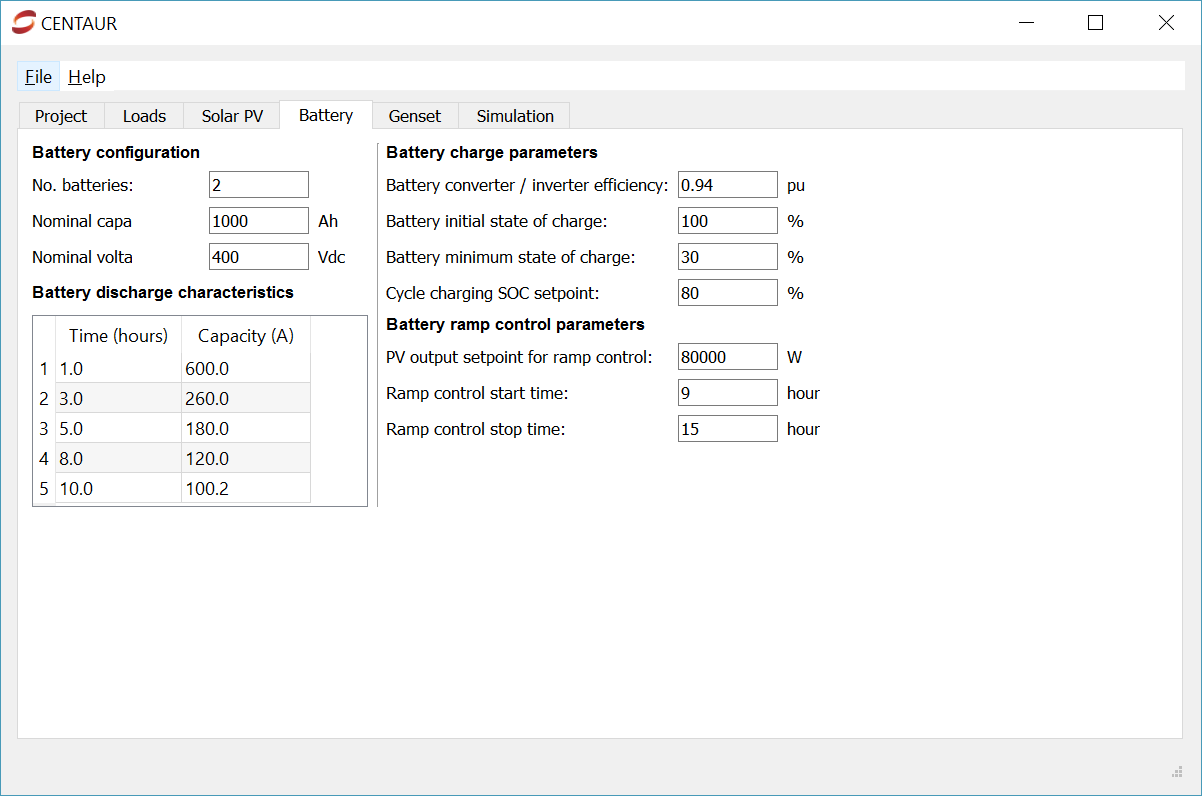
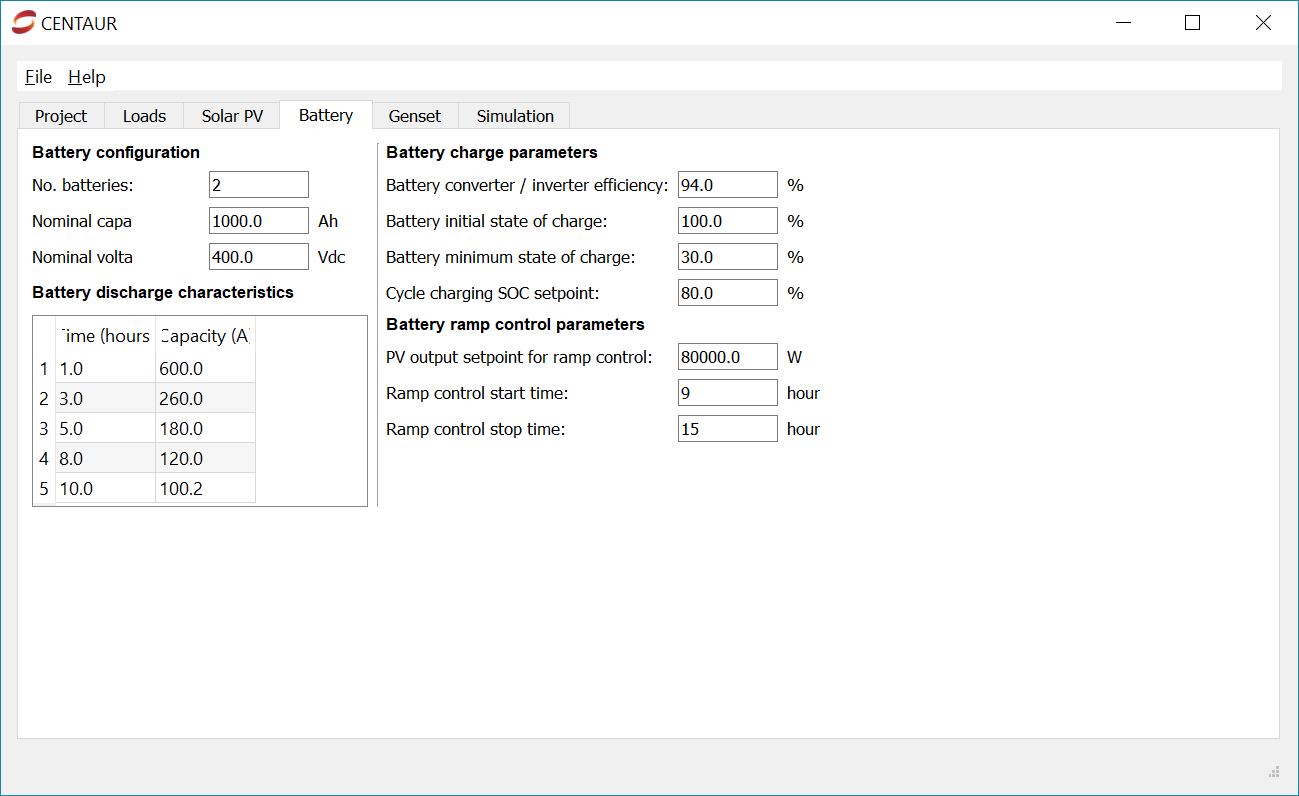
Use of more standard units in GUI
For example, replaced per unit with %

diff --git a/gui/gui_solar.py b/gui/gui_solar.py
@@ -74,25 +74,25 @@ class solar_ui(QtGui.QWidget):
         self.edit_Pinv.setFixedWidth(100)
         
         label7a = QtGui.QLabel('Power temperature coefficient:')
-        label7b = QtGui.QLabel('pu/deg C')
+        label7b = QtGui.QLabel('%/deg C')
         
         self.edit_gamma = QtGui.QLineEdit()
         self.edit_gamma.setFixedWidth(100)
         
-        label8a = QtGui.QLabel('Enviromental derating factor:')
-        label8b = QtGui.QLabel('pu')
+        label8a = QtGui.QLabel('Enviromental derating:')
+        label8b = QtGui.QLabel('%')
         
         self.edit_ke = QtGui.QLineEdit()
         self.edit_ke.setFixedWidth(100)
         
-        label9a = QtGui.QLabel('Manufacturer tolerance factor:')
-        label9b = QtGui.QLabel('pu')
+        label9a = QtGui.QLabel('Manufacturer tolerance derating:')
+        label9b = QtGui.QLabel('%')
         
         self.edit_km = QtGui.QLineEdit()
         self.edit_km.setFixedWidth(100)
         
         label10a = QtGui.QLabel('Inverter / SCC efficiency:')
-        label10b = QtGui.QLabel('pu')
+        label10b = QtGui.QLabel('%')
         
         self.edit_eff = QtGui.QLineEdit()
         self.edit_eff.setFixedWidth(100)
@@ -113,7 +113,7 @@ class solar_ui(QtGui.QWidget):
         self.edit_azimuth.setFixedWidth(100)
         
         label13a = QtGui.QLabel('Albedo:')
-        label13b = QtGui.QLabel('pu')
+        label13b = QtGui.QLabel('%')
         
         self.edit_albedo = QtGui.QLineEdit()
         self.edit_albedo.setFixedWidth(100)
@@ -169,13 +169,13 @@ class solar_ui(QtGui.QWidget):
         self.edit_lon.editingFinished.connect(utility.create_validation_hook(self, self.edit_lon, "Longitude", -180, 180))
         self.edit_Pstc.editingFinished.connect(utility.create_validation_hook(self, self.edit_Pstc, "PStc", 0, float("inf")))
         self.edit_Pinv.editingFinished.connect(utility.create_validation_hook(self, self.edit_Pinv, "Pinv", 0, float("inf")))
-        self.edit_gamma.editingFinished.connect(utility.create_validation_hook(self, self.edit_gamma, "Gamma", 0, 1))
-        self.edit_ke.editingFinished.connect(utility.create_validation_hook(self, self.edit_ke, "Ke", 0, 1))
-        self.edit_km.editingFinished.connect(utility.create_validation_hook(self, self.edit_km, "Km", 0, 1))
-        self.edit_eff.editingFinished.connect(utility.create_validation_hook(self, self.edit_eff, "Efficiency", 0, 1))
+        self.edit_gamma.editingFinished.connect(utility.create_validation_hook(self, self.edit_gamma, "Gamma", 0, 100))
+        self.edit_ke.editingFinished.connect(utility.create_validation_hook(self, self.edit_ke, "Ke", 0, 100))
+        self.edit_km.editingFinished.connect(utility.create_validation_hook(self, self.edit_km, "Km", 0, 100))
+        self.edit_eff.editingFinished.connect(utility.create_validation_hook(self, self.edit_eff, "Efficiency", 0, 100))
         self.edit_tilt.editingFinished.connect(utility.create_validation_hook(self, self.edit_tilt, "Tilt", 0, 90))
         self.edit_azimuth.editingFinished.connect(utility.create_validation_hook(self, self.edit_azimuth, "Azimuth", -180, 180))
-        self.edit_albedo.editingFinished.connect(utility.create_validation_hook(self, self.edit_albedo, "Albedo", 0, 1))
+        self.edit_albedo.editingFinished.connect(utility.create_validation_hook(self, self.edit_albedo, "Albedo", 0, 100))
         
         self.pv_coupling.currentIndexChanged.connect(self.update_coupling)
         update_button.clicked.connect(self.buttonClicked)

diff --git a/gui/globals.py b/gui/globals.py
@@ -56,16 +56,16 @@ def init():
                         [0.443, 25.66]])
     
     pv_data = {
-        'k_e'    : 0.90,                # Environmental factor for solar module output, e.g. dirt, dust, etc
+        'k_e'    : 90.0,                # Environmental factor for solar module output, e.g. dirt, dust, etc (%)
         'P_inv'  : 150000,              # PV system inverter output (Wac)
-        'k_m'    : 0.95,                # Manufacturer tolerance factor
+        'k_m'    : 95.0,                # Manufacturer tolerance factor (%)
         'P_stc'  : 175000,              # PV system output at STC (Wp)
-        'gamma'  : 0.0038,              # Power temperature coefficient (pu per deg C)
-        'eff_pv' : 0.95,                # Efficiency of PV inverter (AC coupled) or charge controller (DC coupled) in pu
+        'gamma'  : 0.38,                # Power temperature coefficient (% per deg C)
+        'eff_pv' : 95.0,                # Efficiency of PV inverter (AC coupled) or charge controller (DC coupled) in %
         'pv_cpl' : 'DC',                # PV coupling - AC or DC
         'tilt'   : 10.0,                # Tilt angle
         'azimuth' : 180.0,              # Azimuth angle
-        'albedo' : 0.2                  # Albedo / ground reflectance
+        'albedo' : 20.0                 # Albedo / ground reflectance (%)
         }
     
     loads = np.array([[43.9, 43.9],   # 00:00
@@ -108,7 +108,7 @@ def init():
         'SOC_min'    : 30,                                     # Minimum state of charge (battery "empty")
         'SOC_0'      : 100,                                    # Initial state of charge
         'SOC_cyc'    : 80,                                     # State of charge setpoint for cycle charging
-        'eff_conv'   : 0.94,                                   # Battery converter / inverter   efficiency
+        'eff_conv'   : 94.0,                                   # Battery converter / inverter   efficiency (%)
         'p_set'      : 80000,                                  # PV output setpoint for ramp control mode at AC load side (in W)
         't_set'      : [9,15]                                  # Time start/end for ramp control mode (hour of day)
     }
@@ -116,9 +116,9 @@ def init():
     gen_data = {
         'n_gen'     : 1,                   # Number of parallel generators
         'P_gen'     : 60,                  # Generator capacity (kW)
-        'l_min'     : 0.4,                 # Minimum generator loading (pu)
+        'l_min'     : 40.0,                # Minimum generator loading (%)
         'e_f'       : 0.27,                # Fuel efficiency (litres/kWh)
-        'chg_eff'   : 0.95,                # Generator AC/DC charger efficiency (for DC coupled only)
+        'chg_eff'   : 95.0,                # Generator AC/DC charger efficiency in % (for DC coupled only)
         'c_f'       : 0.65                 # Fuel cost (USD/kWh)   
     }
     

diff --git a/gui/gui_gen.py b/gui/gui_gen.py
@@ -40,7 +40,7 @@ class gen_ui(QtGui.QWidget):
         self.edit_Pgen.setFixedWidth(100)
         
         label3a = QtGui.QLabel('Minimum generator loading:')
-        label3b = QtGui.QLabel('pu')
+        label3b = QtGui.QLabel('%')
         
         self.edit_Pmin = QtGui.QLineEdit()
         self.edit_Pmin.setFixedWidth(100)
@@ -52,7 +52,7 @@ class gen_ui(QtGui.QWidget):
         self.edit_sfc.setFixedWidth(100)
         
         label5a = QtGui.QLabel('AC/DC charger efficiency:')
-        label5b = QtGui.QLabel('pu (DC coupled only)')
+        label5b = QtGui.QLabel('% (DC coupled only)')
         
         self.edit_ChgEff = QtGui.QLineEdit()
         self.edit_ChgEff.setFixedWidth(100)
@@ -77,9 +77,9 @@ class gen_ui(QtGui.QWidget):
 
         self.edit_nGen.editingFinished.connect(utility.create_validation_hook(self, self.edit_nGen, "Number of generators", 0, 9999))       
         self.edit_Pgen.editingFinished.connect(utility.create_validation_hook(self, self.edit_Pgen, "Generator nominal capacity", 0, 99999))
-        self.edit_Pmin.editingFinished.connect(utility.create_validation_hook(self, self.edit_Pmin, "Generator minimum loading", 0, 1))
+        self.edit_Pmin.editingFinished.connect(utility.create_validation_hook(self, self.edit_Pmin, "Generator minimum loading", 0, 100))
         self.edit_sfc.editingFinished.connect(utility.create_validation_hook(self, self.edit_sfc, "Specific fuel consumption", 0, 99999))
-        self.edit_ChgEff.editingFinished.connect(utility.create_validation_hook(self, self.edit_ChgEff, "AC/DC charger efficiency", 0, 1))
+        self.edit_ChgEff.editingFinished.connect(utility.create_validation_hook(self, self.edit_ChgEff, "AC/DC charger efficiency", 0, 100))
 
         self.refresh_data()  
     

diff --git a/gui/gui_battery.py b/gui/gui_battery.py
@@ -64,7 +64,7 @@ class battery_ui(QtGui.QWidget):
         title3.setFont(QtGui.QFont('arial', weight=QtGui.QFont.Bold))
         
         label4a = QtGui.QLabel('Battery converter / inverter efficiency:')
-        label4b = QtGui.QLabel('pu')
+        label4b = QtGui.QLabel('%')
         
         self.edit_effConv = QtGui.QLineEdit()
         self.edit_effConv.setFixedWidth(100)
@@ -150,7 +150,7 @@ class battery_ui(QtGui.QWidget):
         
         self.edit_Cnom.editingFinished.connect(utility.create_validation_hook(self, self.edit_Cnom, "Nominal capacity", 0, 99999))
         self.edit_Vdc.editingFinished.connect(utility.create_validation_hook(self, self.edit_Vdc, "Nominal DC voltage", 0, 99999))
-        self.edit_effConv.editingFinished.connect(utility.create_validation_hook(self, self.edit_effConv, "Battery converter / inverter efficiency", 0, 1))
+        self.edit_effConv.editingFinished.connect(utility.create_validation_hook(self, self.edit_effConv, "Battery converter / inverter efficiency", 0, 100))
         self.edit_initSOC.editingFinished.connect(utility.create_validation_hook(self, self.edit_initSOC, "Battery initial state of charge", 0, 100))
         self.edit_minSOC.editingFinished.connect(utility.create_validation_hook(self, self.edit_minSOC, "Battery minimum state of charge", 0, 100))
         self.edit_SOC_cyc.editingFinished.connect(utility.create_validation_hook(self, self.edit_SOC_cyc, "Cycle charging SOC setpoint", 0, 100))

diff --git a/gui/gui_sim.py b/gui/gui_sim.py
@@ -100,12 +100,20 @@ class sim_ui(QtGui.QWidget):
         pv_dict = globals.pv_data
         pv_dict['Ktm'] = globals.pv_resource[:,0].tolist()
         pv_dict['T_amb'] = globals.pv_resource[:,1].tolist()
+        pv_dict['k_e'] = pv_dict['k_e'] / 100
+        pv_dict['k_m'] = pv_dict['k_m'] / 100
+        pv_dict['gamma'] = pv_dict['gamma'] / 100
+        pv_dict['eff_pv'] = pv_dict['eff_pv'] / 100
+        pv_dict['albedo'] = pv_dict['albedo'] / 100
         
         batt_dict = globals.batt_data
         batt_dict['T'] = globals.batt_char[:,0].tolist()
         batt_dict['I'] = globals.batt_char[:,1].tolist()
+        batt_dict['eff_conv'] = batt_dict['eff_conv'] / 100
         
         gen_dict = globals.gen_data
+        gen_dict['l_min'] = gen_dict['l_min'] / 100
+        gen_dict['chg_eff'] = gen_dict['chg_eff'] / 100
         
         load_dict = {
             'l_sum' : globals.loads[:,0].tolist(),
